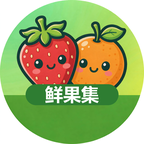
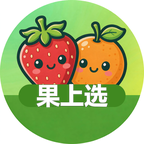
品牌：鲜果集→果上选定稿，全仓替换+图标重合成+档案更新

Changed region(s): [[0.1111, 0.5556, 0.8889, 0.75]]

diff --git a/miniapp-hbx/pages/settings/settings.vue b/miniapp-hbx/pages/settings/settings.vue
@@ -47,7 +47,7 @@
 				<text class="arrow">›</text>
 			</view>
 			<view class="row" @click="goAbout">
-				<text class="row-k">关于鲜果集</text>
+				<text class="row-k">关于果上选</text>
 				<text class="arrow">›</text>
 			</view>
 			<view class="row" @click="copyVersion">
@@ -142,7 +142,7 @@
 			},
 			copyVersion() {
 				const sys = uni.getSystemInfoSync()
-				const txt = '鲜果集 v' + VERSION + ' / ' + (sys.platform || '') + ' / 微信 ' + (sys.version || '')
+				const txt = '果上选 v' + VERSION + ' / ' + (sys.platform || '') + ' / 微信 ' + (sys.version || '')
 				uni.setClipboardData({
 					data: txt,
 					success: () => uni.showToast({ title: '版本信息已复制', icon: 'none' })

diff --git a/miniapp/src/pages/settings/settings.vue b/miniapp/src/pages/settings/settings.vue
@@ -47,7 +47,7 @@
 				<text class="arrow">›</text>
 			</view>
 			<view class="row" @click="goAbout">
-				<text class="row-k">关于鲜果集</text>
+				<text class="row-k">关于果上选</text>
 				<text class="arrow">›</text>
 			</view>
 			<view class="row" @click="copyVersion">
@@ -142,7 +142,7 @@
 			},
 			copyVersion() {
 				const sys = uni.getSystemInfoSync()
-				const txt = '鲜果集 v' + VERSION + ' / ' + (sys.platform || '') + ' / 微信 ' + (sys.version || '')
+				const txt = '果上选 v' + VERSION + ' / ' + (sys.platform || '') + ' / 微信 ' + (sys.version || '')
 				uni.setClipboardData({
 					data: txt,
 					success: () => uni.showToast({ title: '版本信息已复制', icon: 'none' })

diff --git a/miniapp-hbx/pages/about/about.vue b/miniapp-hbx/pages/about/about.vue
@@ -3,7 +3,7 @@
 		<!-- 品牌头 -->
 		<view class="hero">
 			<view class="logo"><text class="logo-t">果</text></view>
-			<text class="brand">鲜果集</text>
+			<text class="brand">果上选</text>
 			<text class="slogan">水果这行没什么秘密，好吃就是好吃</text>
 		</view>
 
@@ -76,7 +76,7 @@
 			<text class="note">正式接入微信支付需要营业执照办下来才能申请商户号，办好后会在这里更新。</text>
 		</view>
 
-		<text class="copy">© 2026 鲜果集</text>
+		<text class="copy">© 2026 果上选</text>
 		<view style="height: 40rpx;"></view>
 	</view>
 </template>

diff --git a/miniapp/src/pages/about/about.vue b/miniapp/src/pages/about/about.vue
@@ -3,7 +3,7 @@
 		<!-- 品牌头 -->
 		<view class="hero">
 			<view class="logo"><text class="logo-t">果</text></view>
-			<text class="brand">鲜果集</text>
+			<text class="brand">果上选</text>
 			<text class="slogan">水果这行没什么秘密，好吃就是好吃</text>
 		</view>
 
@@ -76,7 +76,7 @@
 			<text class="note">正式接入微信支付需要营业执照办下来才能申请商户号，办好后会在这里更新。</text>
 		</view>
 
-		<text class="copy">© 2026 鲜果集</text>
+		<text class="copy">© 2026 果上选</text>
 		<view style="height: 40rpx;"></view>
 	</view>
 </template>

diff --git a/miniapp-hbx/pages/service/service.vue b/miniapp-hbx/pages/service/service.vue
@@ -5,7 +5,7 @@
 			<view class="hero-ic"><image src="/static/icon/png/headset.png" mode="aspectFit" class="hero-img"></image></view>
 			<view class="hero-c">
 				<view class="hero-t">
-					<text class="hero-name">鲜果集客服</text>
+					<text class="hero-name">果上选客服</text>
 					<text class="dot" :class="{ off: !online }"></text>
 					<text class="hero-st" :class="{ off: !online }">{{ online ? '在线' : '已下班' }}</text>
 				</view>

diff --git a/miniapp/src/pages/service/service.vue b/miniapp/src/pages/service/service.vue
@@ -5,7 +5,7 @@
 			<view class="hero-ic"><image src="/static/icon/png/headset.png" mode="aspectFit" class="hero-img"></image></view>
 			<view class="hero-c">
 				<view class="hero-t">
-					<text class="hero-name">鲜果集客服</text>
+					<text class="hero-name">果上选客服</text>
 					<text class="dot" :class="{ off: !online }"></text>
 					<text class="hero-st" :class="{ off: !online }">{{ online ? '在线' : '已下班' }}</text>
 				</view>

diff --git a/miniapp-hbx/index.html b/miniapp-hbx/index.html
@@ -6,7 +6,7 @@
       var coverSupport = 'CSS' in window && typeof (CSS.supports || 'supports') === 'function'
       document.write('<meta name="viewport" content="width=device-width, user-scalable=no, initial-scale=1.0, maximum-scale=1.0, minimum-scale=1.0' + (coverSupport ? ', viewport-fit=cover' : '') + '" />')
     </script>
-    <title>鲜果集小程序</title>
+    <title>果上选小程序</title>
   </head>
   <body>
     <div id="app"></div>

diff --git a/web/src/views/Login.vue b/web/src/views/Login.vue
@@ -2,7 +2,7 @@
   <div class="login-wrap">
     <div class="login-card">
       <div class="login-brand">
-        <span class="mark">鲜</span><span class="name">登录鲜果集</span>
+        <span class="mark">鲜</span><span class="name">登录果上选</span>
       </div>
       <div class="tip">登录后可下单购买，新手机号自动注册</div>
       <input v-model.trim="phone" maxlength="11" placeholder="手机号" />

diff --git a/web/src/components/NavBar.vue b/web/src/components/NavBar.vue
@@ -2,7 +2,7 @@
   <header class="nav">
     <div class="nav-inner">
       <div class="logo" @click="$router.push('/')">
-        <span class="mark">鲜</span><span class="name">鲜果集</span>
+        <span class="mark">鲜</span><span class="name">果上选</span>
       </div>
       <div class="nav-search">
         <input v-model="keyword" placeholder="搜索水果：苹果 / 车厘子 / 草莓…" @keyup.enter="goSearch" />

diff --git a/miniapp-hbx/pages/index/index.vue b/miniapp-hbx/pages/index/index.vue
@@ -5,7 +5,7 @@
 			<view class="nav-topline">
 				<view class="brand">
 					<view class="logo"><text class="logo-text">果</text></view>
-					<text>鲜果集</text>
+					<text>果上选</text>
 				</view>
 				<view class="loc"><image src="/static/icon/png/map-pin-white.png" mode="aspectFit" class="loc-icon"></image><text>湘西州·滨江公寓</text></view>
 				<view class="head-icons">

diff --git a/miniapp/src/pages/index/index.vue b/miniapp/src/pages/index/index.vue
@@ -5,7 +5,7 @@
 			<view class="nav-topline">
 				<view class="brand">
 					<view class="logo"><text class="logo-text">果</text></view>
-					<text>鲜果集</text>
+					<text>果上选</text>
 				</view>
 				<view class="loc"><image src="/static/icon/png/map-pin-white.png" mode="aspectFit" class="loc-icon"></image><text>湘西州·滨江公寓</text></view>
 				<view class="head-icons">

diff --git a/web/src/App.vue b/web/src/App.vue
@@ -4,7 +4,7 @@
     <main class="page">
       <router-view />
     </main>
-    <footer class="foot">鲜果集 · 水果商城 — 产地直采 · 坏果包赔 · 极速退款（演示项目）</footer>  </div>
+    <footer class="foot">果上选 · 水果商城 — 产地直采 · 坏果包赔 · 极速退款（演示项目）</footer>  </div>
 </template>
 
 <script setup>
